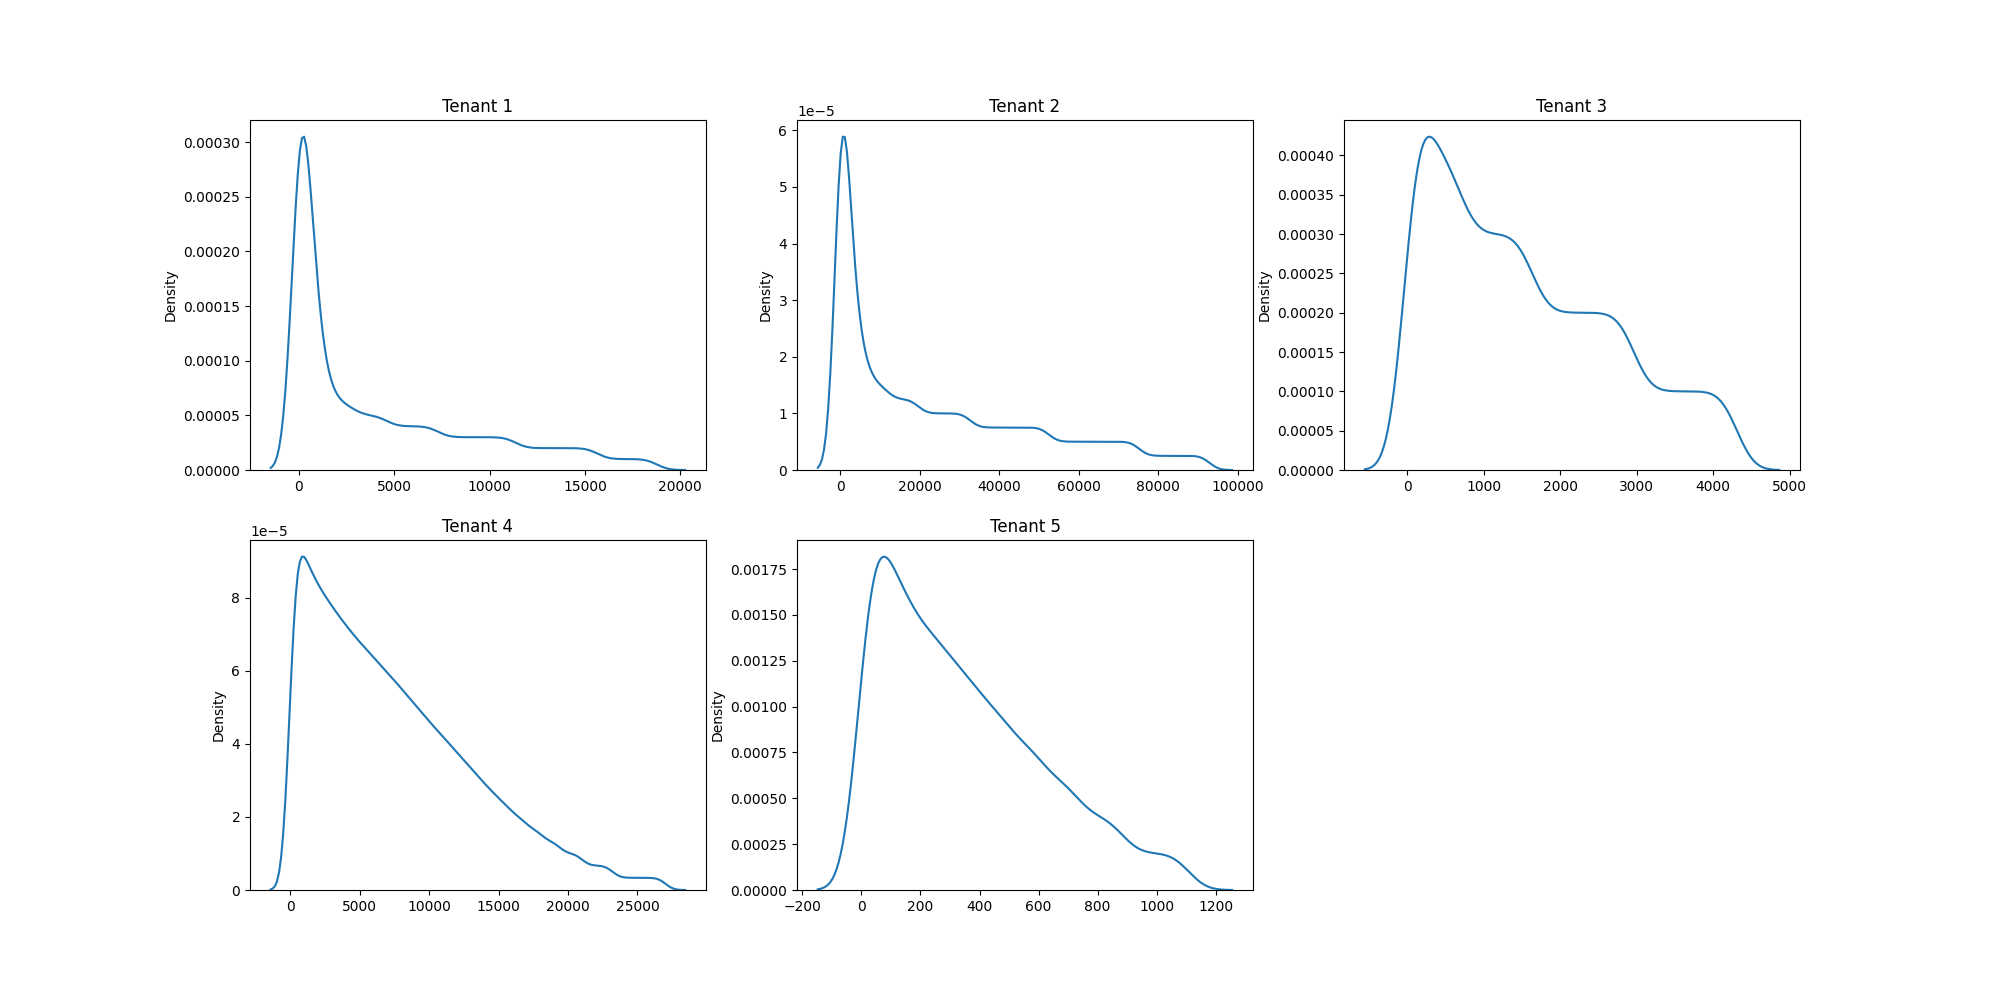
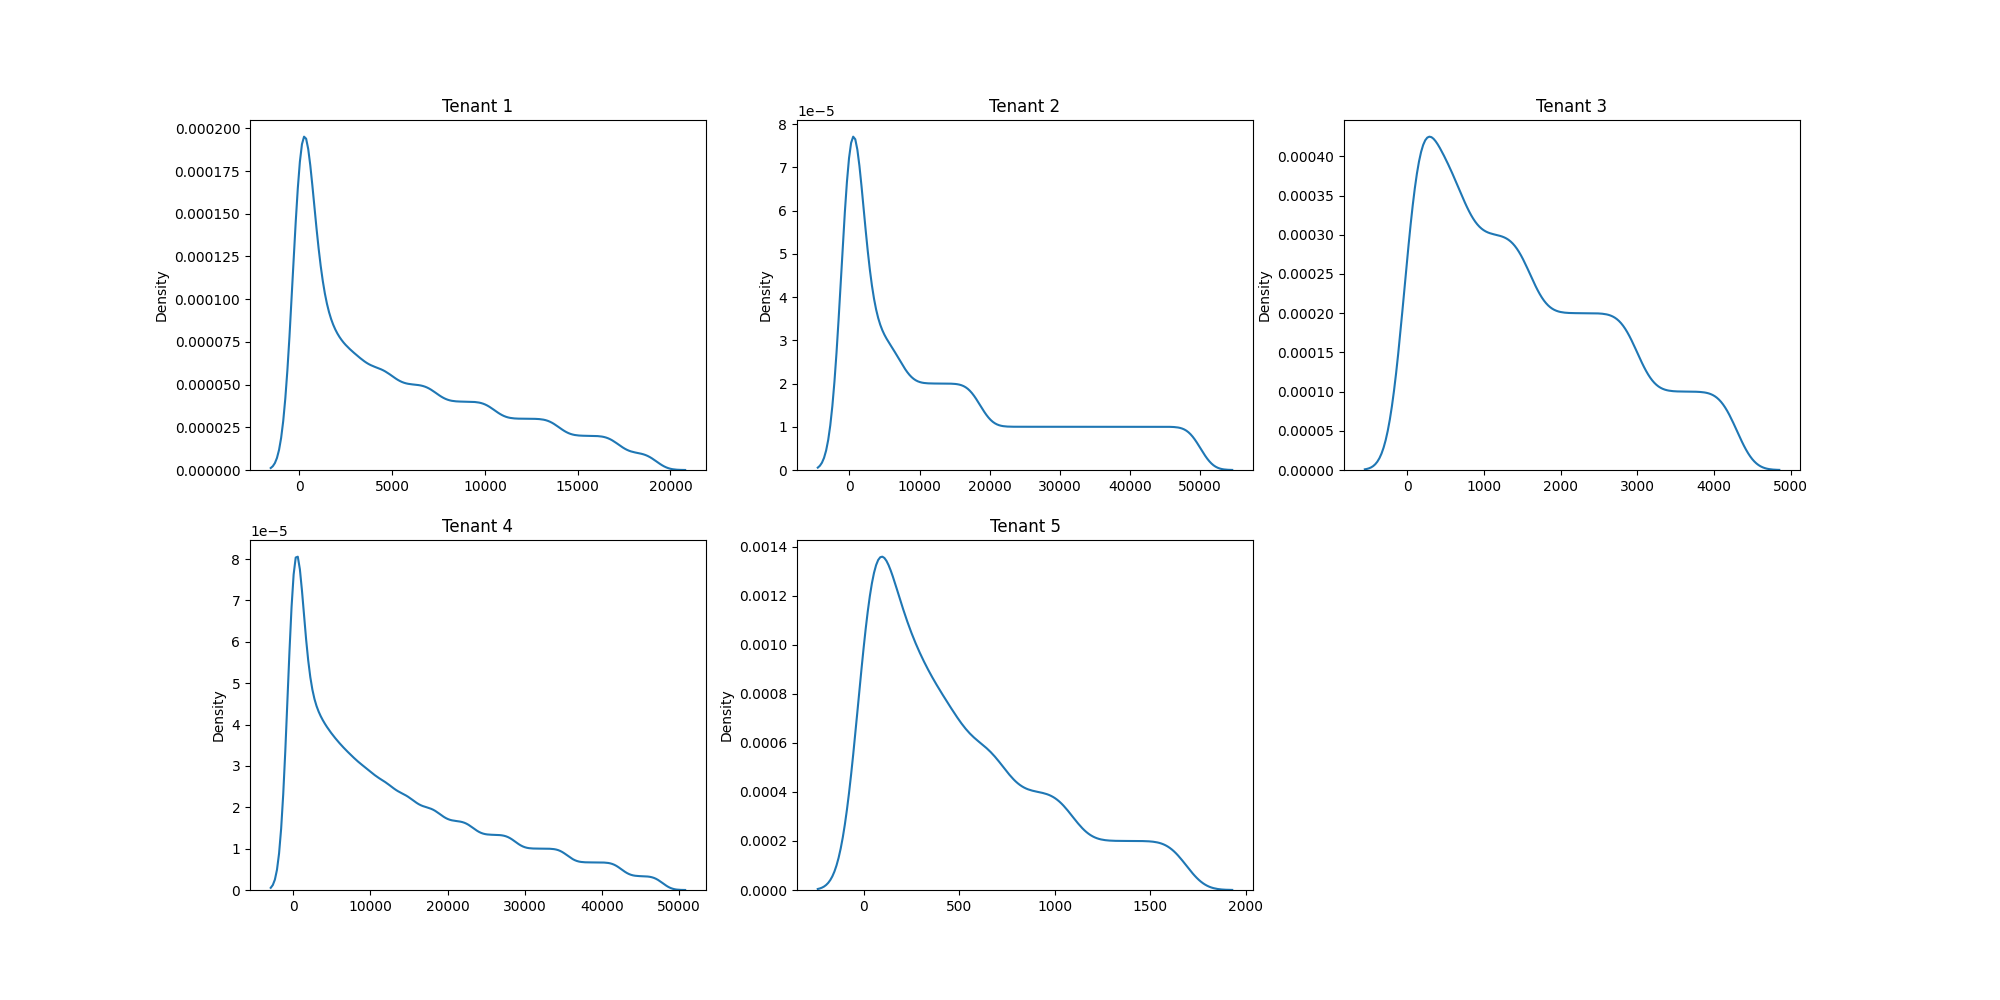
feat/update-cases-1-and-13

diff --git a/test_cases/test_case_1/description.py b/test_cases/test_case_1/description.py
@@ -9,17 +9,23 @@ tenants = [
         'minimum_buffer_size': 500,
         'base_buffer_size': 2000,
         'maximum_buffer_size': 5000,
-        'page_accesses_dist': {
+        'page_accesses_dist': [
+          {
             'type': 'pareto',
             'parameter': 0.05,
-            'length': 100000,
-        },
-        'pages_should_be_renumbered': False,
-        'page_accesses_interval_dist': {
-            'type': 'uniform',
-            'length': 100000,
-            'max_value': 1,
-        },
+            'length': 60000,
+            'interval_type': 'uniform',
+            'interval_max_value': 1,
+          },
+          {
+            'type': 'normal',
+            'variance': 10000,
+            'length': 40000,
+            'interval_type': 'uniform',
+            'interval_max_value': 1,
+          },
+        ],
+        'pages_should_be_renumbered': True,
     },
     {
         'tenant_id': 2,
@@ -28,17 +34,23 @@ tenants = [
         'minimum_buffer_size': 3500,
         'base_buffer_size': 5000,
         'maximum_buffer_size': 12500,
-        'page_accesses_dist': {
+        'page_accesses_dist': [
+          {
             'type': 'zipfian',
             'parameter': 1.01,
-            'length': 400000,
-        },
-        'pages_should_be_renumbered': False,
-        'page_accesses_interval_dist': {
-            'type': 'uniform',
-            'length': 100000,
-            'max_value': 1,
-        },
+            'length': 50000,
+            'interval_type': 'uniform',
+            'interval_max_value': 1,
+          },
+          {
+            'type': 'pareto',
+            'parameter': 0.05,
+            'length': 50000,
+            'interval_type': 'uniform',
+            'interval_max_value': 1,
+          },
+        ],
+        'pages_should_be_renumbered': True,
     },
     {
         'tenant_id': 3,
@@ -47,16 +59,15 @@ tenants = [
         'minimum_buffer_size': 125,
         'base_buffer_size': 500,
         'maximum_buffer_size': 1250,
-        'page_accesses_dist': {
+        'page_accesses_dist': [
+          {
             'type': 'uniform',
             'length': 10000,
-        },
-        'pages_should_be_renumbered': False,
-        'page_accesses_interval_dist': {
-            'type': 'uniform',
-            'length': 100000,
-            'max_value': 1,
-        },
+            'interval_type': 'uniform',
+            'interval_max_value': 1,
+          },
+        ],
+        'pages_should_be_renumbered': True,
     },
     {
         'tenant_id': 4,
@@ -65,17 +76,30 @@ tenants = [
         'minimum_buffer_size': 1500,
         'base_buffer_size': 3000,
         'maximum_buffer_size': 8000,
-        'page_accesses_dist': {
+        'page_accesses_dist': [
+          {
             'type': 'normal',
             'variance': 10000,
-            'length': 300000,
-        },
-        'pages_should_be_renumbered': False,
-        'page_accesses_interval_dist': {
-            'type': 'uniform',
             'length': 100000,
-            'max_value': 1,
-        },
+            'interval_type': 'uniform',
+            'interval_max_value': 1,
+          },
+          {
+            'type': 'zipfian',
+            'parameter': 1.01,
+            'length': 100000,
+            'interval_type': 'uniform',
+            'interval_max_value': 1,
+          },
+          {
+            'type': 'pareto',
+            'parameter': 0.05,
+            'length': 100000,
+            'interval_type': 'uniform',
+            'interval_max_value': 1,
+          },
+        ],
+        'pages_should_be_renumbered': True,
     },
     {
         'tenant_id': 5,
@@ -84,17 +108,23 @@ tenants = [
         'minimum_buffer_size': 40,
         'base_buffer_size': 200,
         'maximum_buffer_size': 500,
-        'page_accesses_dist': {
+        'page_accesses_dist': [
+          {
             'type': 'normal',
             'variance': 500,
-            'length': 5000,
-        },
-        'pages_should_be_renumbered': False,
-        'page_accesses_interval_dist': {
-            'type': 'uniform',
-            'length': 100000,
-            'max_value': 1,
-        },
+            'length': 3000,
+            'interval_type': 'uniform',
+            'interval_max_value': 1,
+          },
+          {
+            'type': 'pareto',
+            'parameter': 0.05,
+            'length': 2000,
+            'interval_type': 'uniform',
+            'interval_max_value': 1,
+          },
+        ],
+        'pages_should_be_renumbered': True,
     },
 ]
 

diff --git a/test_cases/test_case_13/description.py b/test_cases/test_case_13/description.py
@@ -9,17 +9,37 @@ tenants = [
         'minimum_buffer_size': 10000,
         'base_buffer_size': 20000,
         'maximum_buffer_size': 50000,
-        'page_accesses_dist': {
+        'page_accesses_dist': [
+          {
             'type': 'pareto',
             'parameter': 0.04,
-            'length': 740000,
-        },
-        'pages_should_be_renumbered': False,
-        'page_accesses_interval_dist': {
-            'type': 'uniform',
-            'length': 740000,
-            'max_value': 1,
-        },
+            'length': 160000,
+            'interval_type': 'uniform',
+            'interval_max_value': 1,
+          },
+          {
+            'type': 'pareto',
+            'parameter': 0.04,
+            'length': 160000,
+            'interval_type': 'uniform',
+            'interval_max_value': 1,
+          },
+          {
+            'type': 'pareto',
+            'parameter': 0.04,
+            'length': 160000,
+            'interval_type': 'uniform',
+            'interval_max_value': 1,
+          },
+          {
+            'type': 'pareto',
+            'parameter': 0.04,
+            'length': 160000,
+            'interval_type': 'uniform',
+            'interval_max_value': 1,
+          },
+        ],
+        'pages_should_be_renumbered': True,
     },
     {
         'tenant_id': 2,
@@ -28,17 +48,23 @@ tenants = [
         'minimum_buffer_size': 2500,
         'base_buffer_size': 6500,
         'maximum_buffer_size': 16000,
-        'page_accesses_dist': {
+        'page_accesses_dist': [
+          {
             'type': 'normal',
             'variance': 4500,
-            'length': 80000,
-        },
-        'pages_should_be_renumbered': False,
-        'page_accesses_interval_dist': {
-            'type': 'uniform',
-            'length': 80000,
-            'max_value': 1,
-        },
+            'length': 40000,
+            'interval_type': 'uniform',
+            'interval_max_value': 1,
+          },
+          {
+            'type': 'normal',
+            'variance': 4500,
+            'length': 40000,
+            'interval_type': 'uniform',
+            'interval_max_value': 1,
+          },
+        ],
+        'pages_should_be_renumbered': True,
     },
     {
         'tenant_id': 3,
@@ -47,17 +73,23 @@ tenants = [
         'minimum_buffer_size': 2500,
         'base_buffer_size': 6500,
         'maximum_buffer_size': 16000,
-        'page_accesses_dist': {
+        'page_accesses_dist': [
+          {
             'type': 'zipfian',
             'parameter': 1.01,
-            'length': 80000,
-        },
-        'pages_should_be_renumbered': False,
-        'page_accesses_interval_dist': {
-            'type': 'uniform',
-            'length': 80000,
-            'max_value': 1,
-        },
+            'length': 40000,
+            'interval_type': 'uniform',
+            'interval_max_value': 1,
+          },
+          {
+            'type': 'zipfian',
+            'parameter': 1.01,
+            'length': 40000,
+            'interval_type': 'uniform',
+            'interval_max_value': 1,
+          },
+        ],
+        'pages_should_be_renumbered': True,
     },
     {
         'tenant_id': 4,
@@ -66,17 +98,30 @@ tenants = [
         'minimum_buffer_size': 3000,
         'base_buffer_size': 7500,
         'maximum_buffer_size': 18500,
-        'page_accesses_dist': {
+        'page_accesses_dist': [
+          {
             'type': 'pareto',
             'parameter': 0.04,
-            'length': 100000,
-        },
-        'pages_should_be_renumbered': False,
-        'page_accesses_interval_dist': {
-            'type': 'uniform',
-            'length': 100000,
-            'max_value': 1,
-        },
+            'length': 50000,
+            'interval_type': 'uniform',
+            'interval_max_value': 1,
+          },
+          {
+            'type': 'pareto',
+            'parameter': 0.04,
+            'length': 25000,
+            'interval_type': 'uniform',
+            'interval_max_value': 1,
+          },
+          {
+            'type': 'pareto',
+            'parameter': 0.04,
+            'length': 25000,
+            'interval_type': 'uniform',
+            'interval_max_value': 1,
+          },
+        ],
+        'pages_should_be_renumbered': True,
     },
 ]
 
